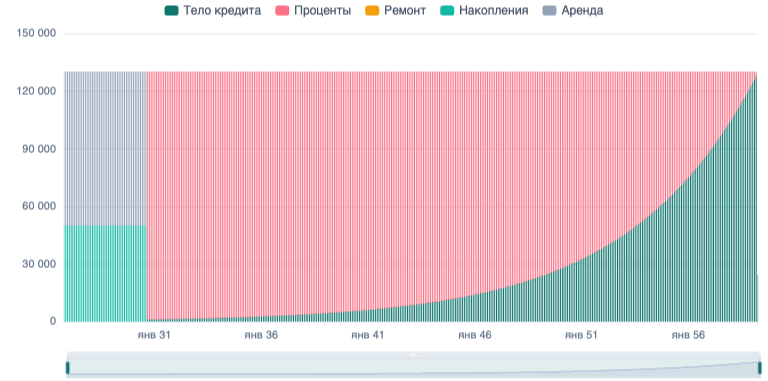
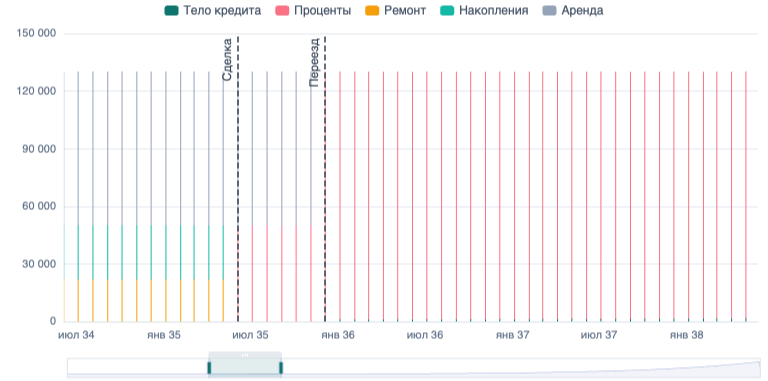
Register MarkLineComponent and start the chart zoomed on the deal (#10)
Markers vanished because the tree-shaken ECharts bundle never
included MarkLineComponent; bars rendered hair-thin because the
initial window showed the whole horizon. Start the 48-month window
at deal minus 12 months so candles are fat and both markers are
in frame; wheel/slider still reach the full range.

diff --git a/src/App.vue b/src/App.vue
@@ -3,10 +3,10 @@ import { computed, nextTick, onBeforeUnmount, onMounted, reactive, ref, watch } 
 import { DEFAULTS, SIMULATION_HORIZON_MONTHS, RENOVATION_COST_SHARE, calculate, isMortgagePaymentTooLow, buildCashflow, rentPaidUntilMonth } from './lib/model.js';
 import * as echarts from 'echarts/core';
 import { BarChart } from 'echarts/charts';
-import { DataZoomComponent, GridComponent, LegendComponent, TooltipComponent } from 'echarts/components';
+import { DataZoomComponent, GridComponent, LegendComponent, MarkLineComponent, TooltipComponent } from 'echarts/components';
 import { CanvasRenderer } from 'echarts/renderers';
 
-echarts.use([BarChart, DataZoomComponent, GridComponent, LegendComponent, TooltipComponent, CanvasRenderer]);
+echarts.use([BarChart, DataZoomComponent, GridComponent, LegendComponent, MarkLineComponent, TooltipComponent, CanvasRenderer]);
 import { addMonths, formatDate, duration } from './lib/format.js';
 
 const inputs = reactive({ ...DEFAULTS });
@@ -80,8 +80,13 @@ const buildCashflowOption = (data) => {
   if (data.dealMonth > 0) marks.push({ xAxis: monthDate(data.dealMonth), label: { formatter: 'Сделка', position: 'insideEndTop', color: '#334155' }, lineStyle: { color: '#334155', type: 'dashed', width: 1.5 } });
   if (data.moveMonth > data.dealMonth) marks.push({ xAxis: monthDate(data.moveMonth), label: { formatter: 'Переезд', position: 'insideEndTop', color: '#334155' }, lineStyle: { color: '#334155', type: 'dashed', width: 1.5 } });
   if (marks.length) series[0].markLine = { symbol: 'none', silent: true, animation: false, data: marks };
-  return {
-    animationDuration: 150,
+    const total = data.rows.length;
+    const windowStart = Math.max(0, data.dealMonth - 12);
+    const windowEnd = Math.min(total, windowStart + 48);
+    const zoomStart = Math.round(windowStart / Math.max(1, total) * 1000) / 10;
+    const zoomEnd = Math.round(windowEnd / Math.max(1, total) * 1000) / 10;
+    return {
+      animationDuration: 150,
     tooltip: {
       trigger: 'axis',
       axisPointer: { type: 'shadow', shadowStyle: { color: 'rgba(15, 23, 42, .06)' } },
@@ -100,8 +105,8 @@ const buildCashflowOption = (data) => {
     xAxis: { type: 'time', axisLine: { lineStyle: { color: '#dbe3e8' } }, axisTick: { show: false }, axisLabel: { color: '#64748b', fontSize: 11, formatter: (value) => formatMonthTick(value), hideOverlap: true } },
     yAxis: { type: 'value', axisLine: { show: false }, axisTick: { show: false }, axisLabel: { color: '#64748b', fontSize: 11, formatter: (value) => plainNumber.format(value) }, splitLine: { lineStyle: { color: '#e2e8f0' } } },
     dataZoom: [
-      { type: 'inside', filterMode: 'none' },
-      { type: 'slider', height: 20, bottom: 8, filterMode: 'none', borderColor: '#dbe3e8', fillerColor: 'rgba(15, 118, 110, .12)', handleStyle: { color: '#0f766e' }, moveHandleStyle: { color: '#cbd5e1' }, emphasis: { handleStyle: { borderColor: '#0f766e' } }, textStyle: { color: '#64748b', fontSize: 10 }, labelFormatter: (value) => formatMonthTick(value) }
+      { type: 'inside', filterMode: 'none', start: zoomStart, end: zoomEnd },
+      { type: 'slider', height: 20, bottom: 8, filterMode: 'none', start: zoomStart, end: zoomEnd, borderColor: '#dbe3e8', fillerColor: 'rgba(15, 118, 110, .12)', handleStyle: { color: '#0f766e' }, moveHandleStyle: { color: '#cbd5e1' }, emphasis: { handleStyle: { borderColor: '#0f766e' } }, textStyle: { color: '#64748b', fontSize: 10 }, labelFormatter: (value) => formatMonthTick(value) }
     ],
     series
   };
